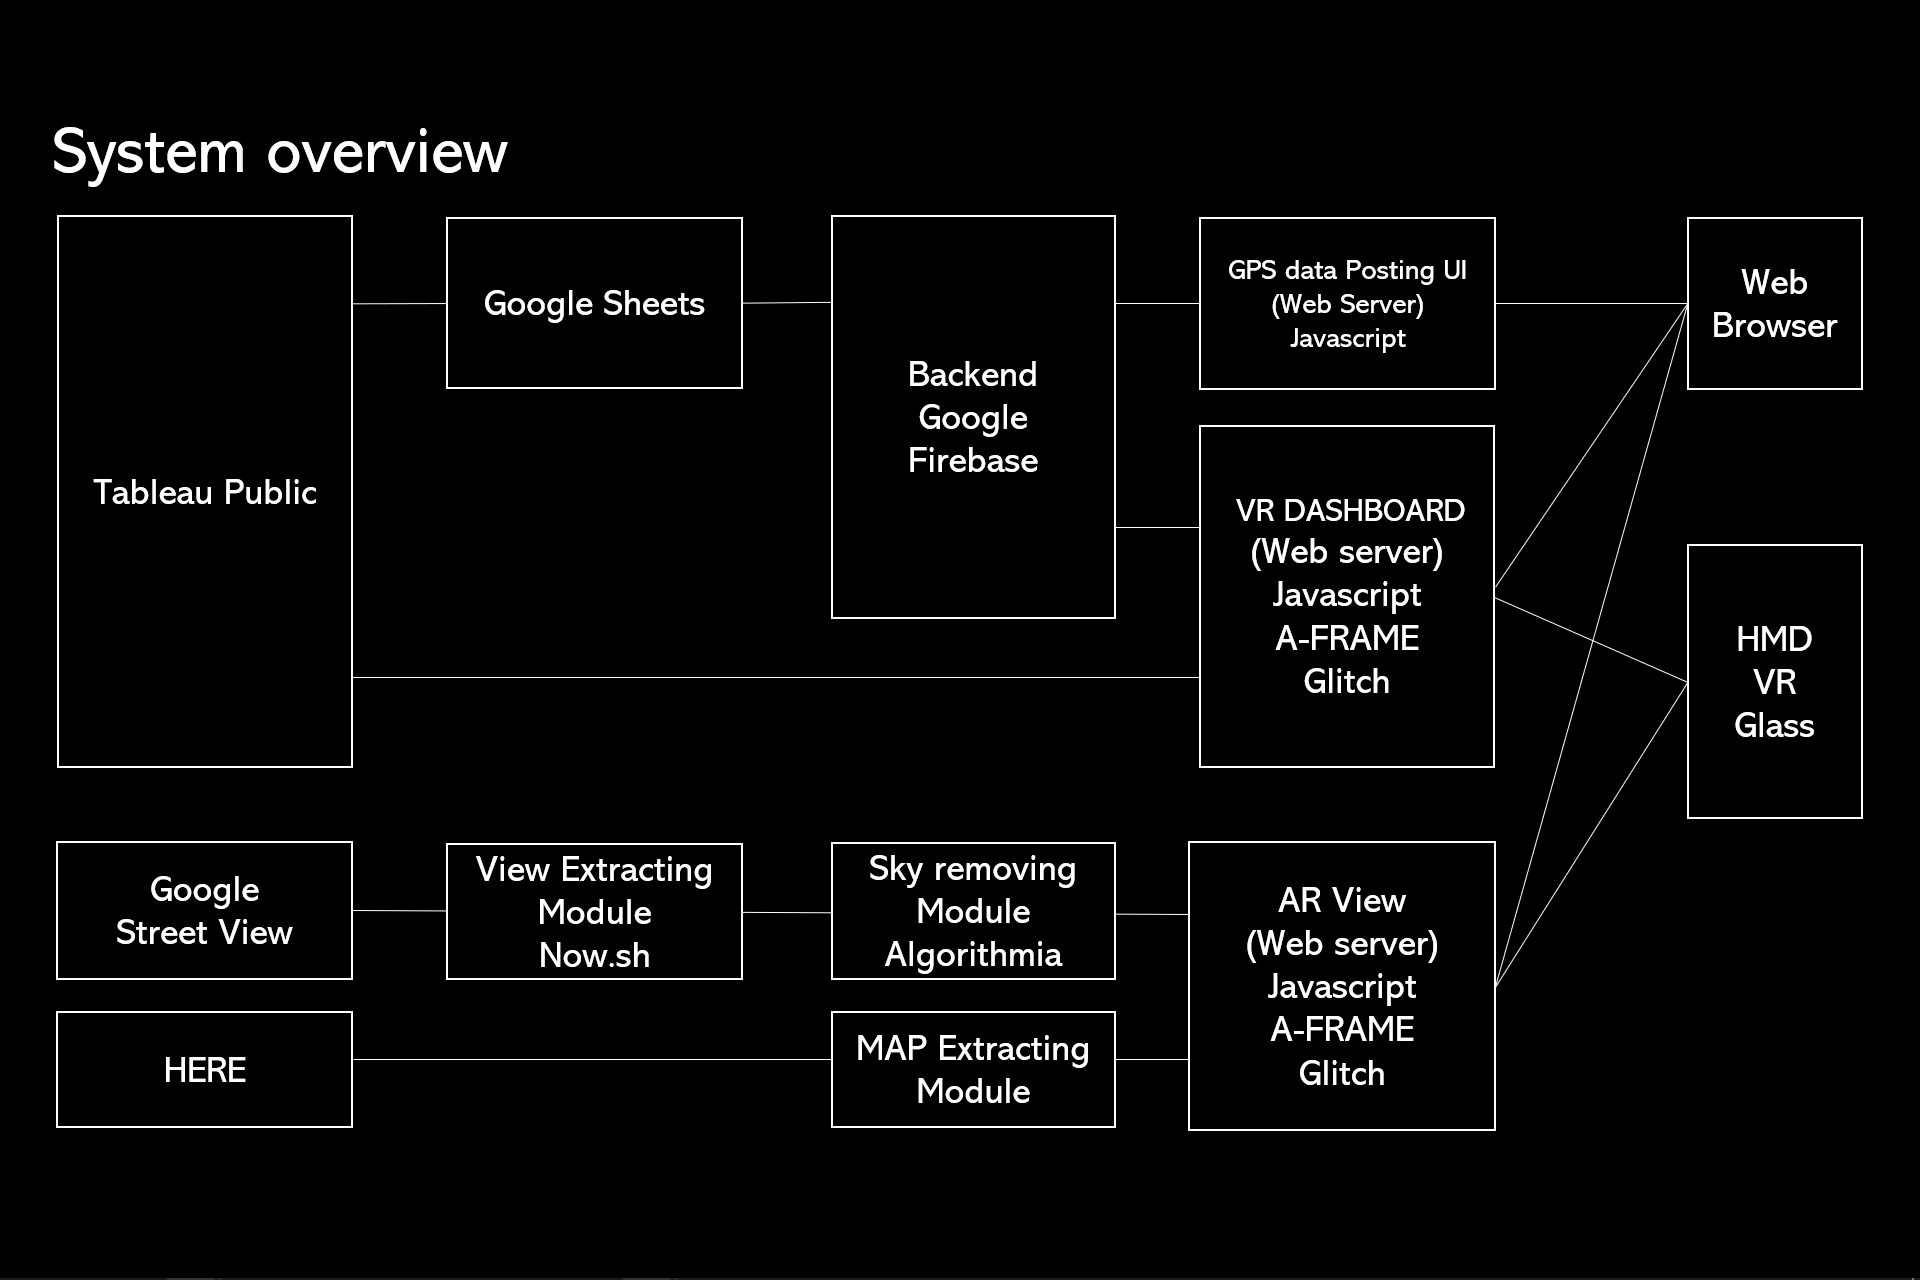
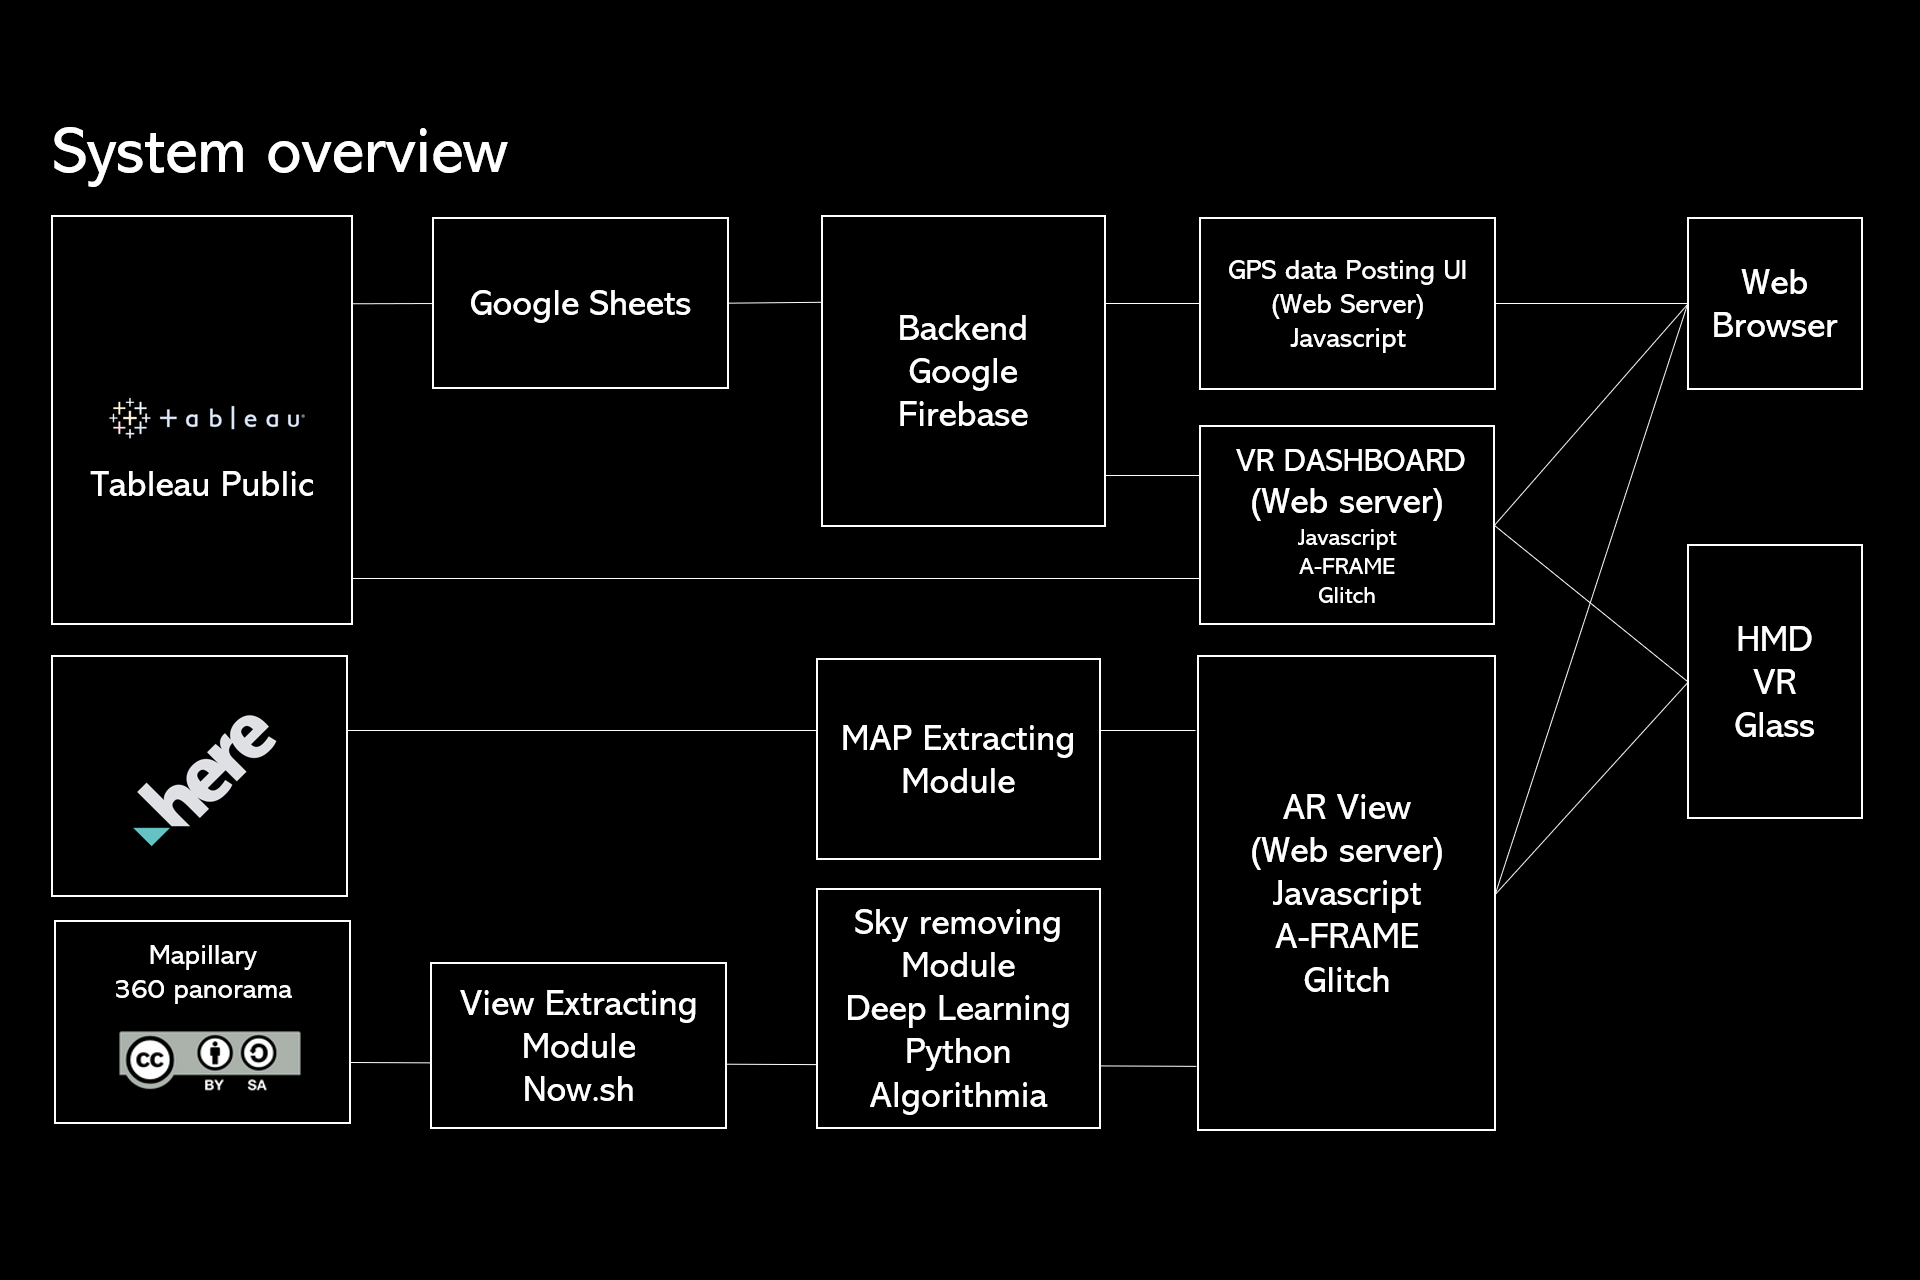
updates

diff --git a/README.md b/README.md
@@ -3,15 +3,18 @@
 ![diagram](./diagram.png)
 
 1. GPS data Posting UI
-	- UI: 
-		- main: standy-react-frontend
-		- user management: standy-user-management
-	- SERVERLESS FUNCTION: matrix calculator for database: standy-cloudfunction-matrix-generator
-	- SERVERLESS FUNCTION: user contribution calculator: standy-user-contribution-calculator
+
+   - UI: - main: standy-react-frontend - user management: standy-user-management
+   - SERVERLESS FUNCTION: matrix calculator for database: standy-cloudfunction-matrix-generator
+   - SERVERLESS FUNCTION: user contribution calculator: standy-user-contribution-calculator
 
 2. VR Dashboard
-	- https://glitch.com/edit/#!/vr-dashboard-olympics?path=index.html:1:0
 
+   - https://glitch.com/edit/#!/vr-dashboard-olympics?path=index.html:1:0
 
 3. AR View
-	- https://glitch.com/edit/#!/ar-view?path=index.html:1:0
+
+   - https://glitch.com/edit/#!/ar-view?path=index.html:1:0
+
+4. Crowdedness data visualization
+   - Dismissing-the-crowdedness-challenge-20190724.twbx
